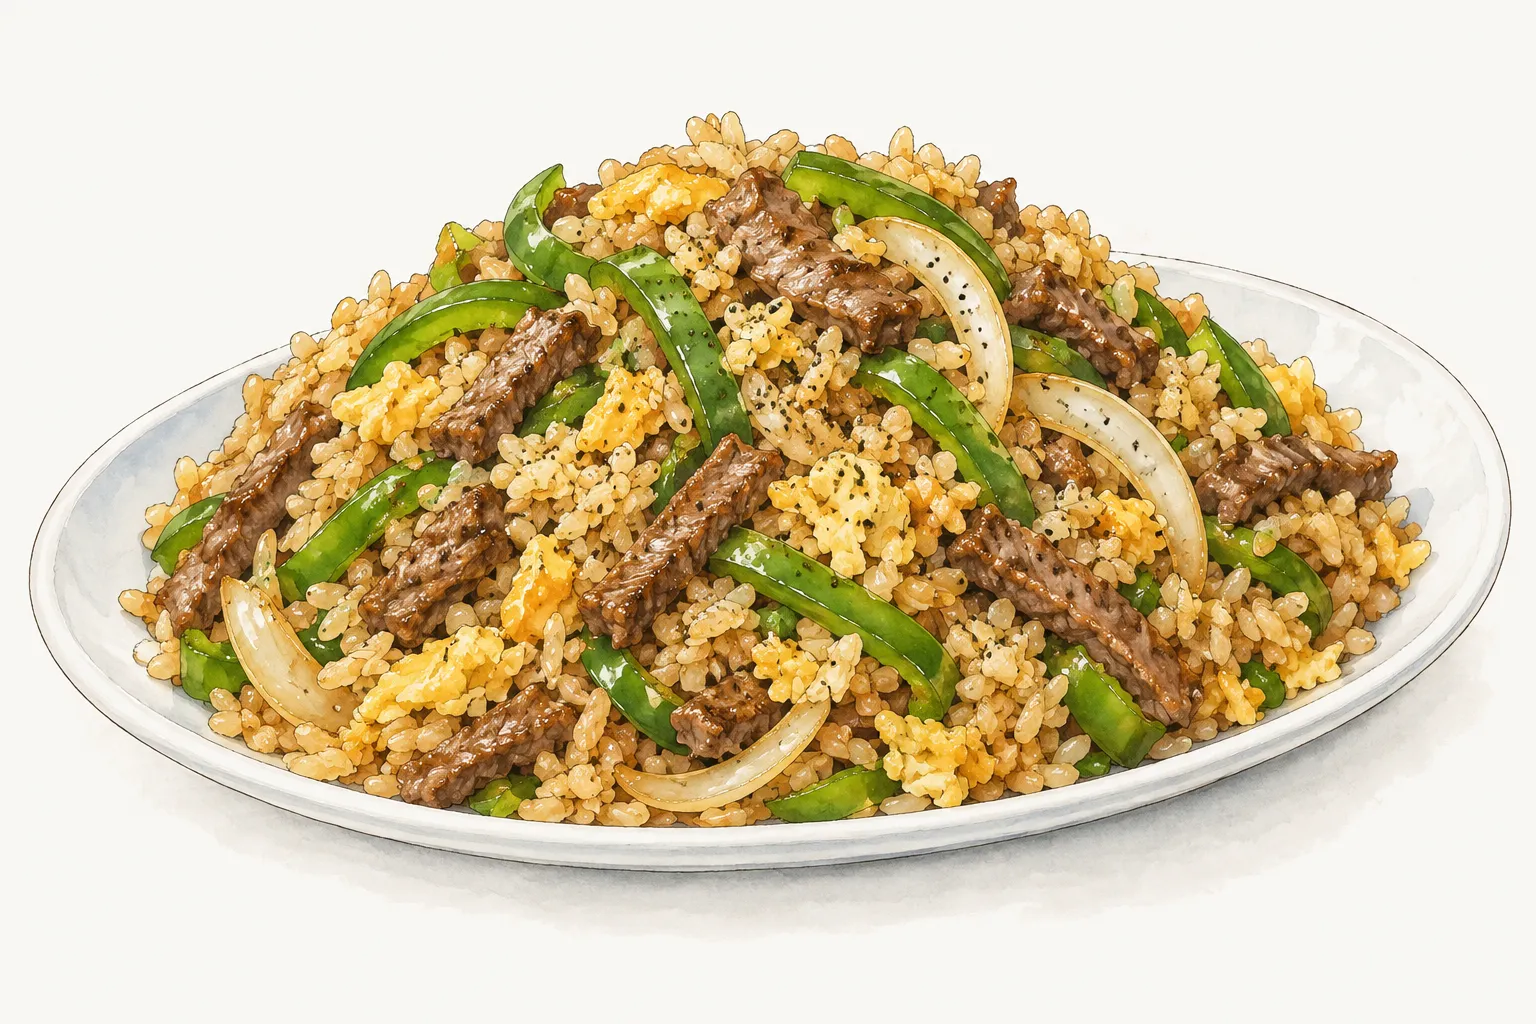
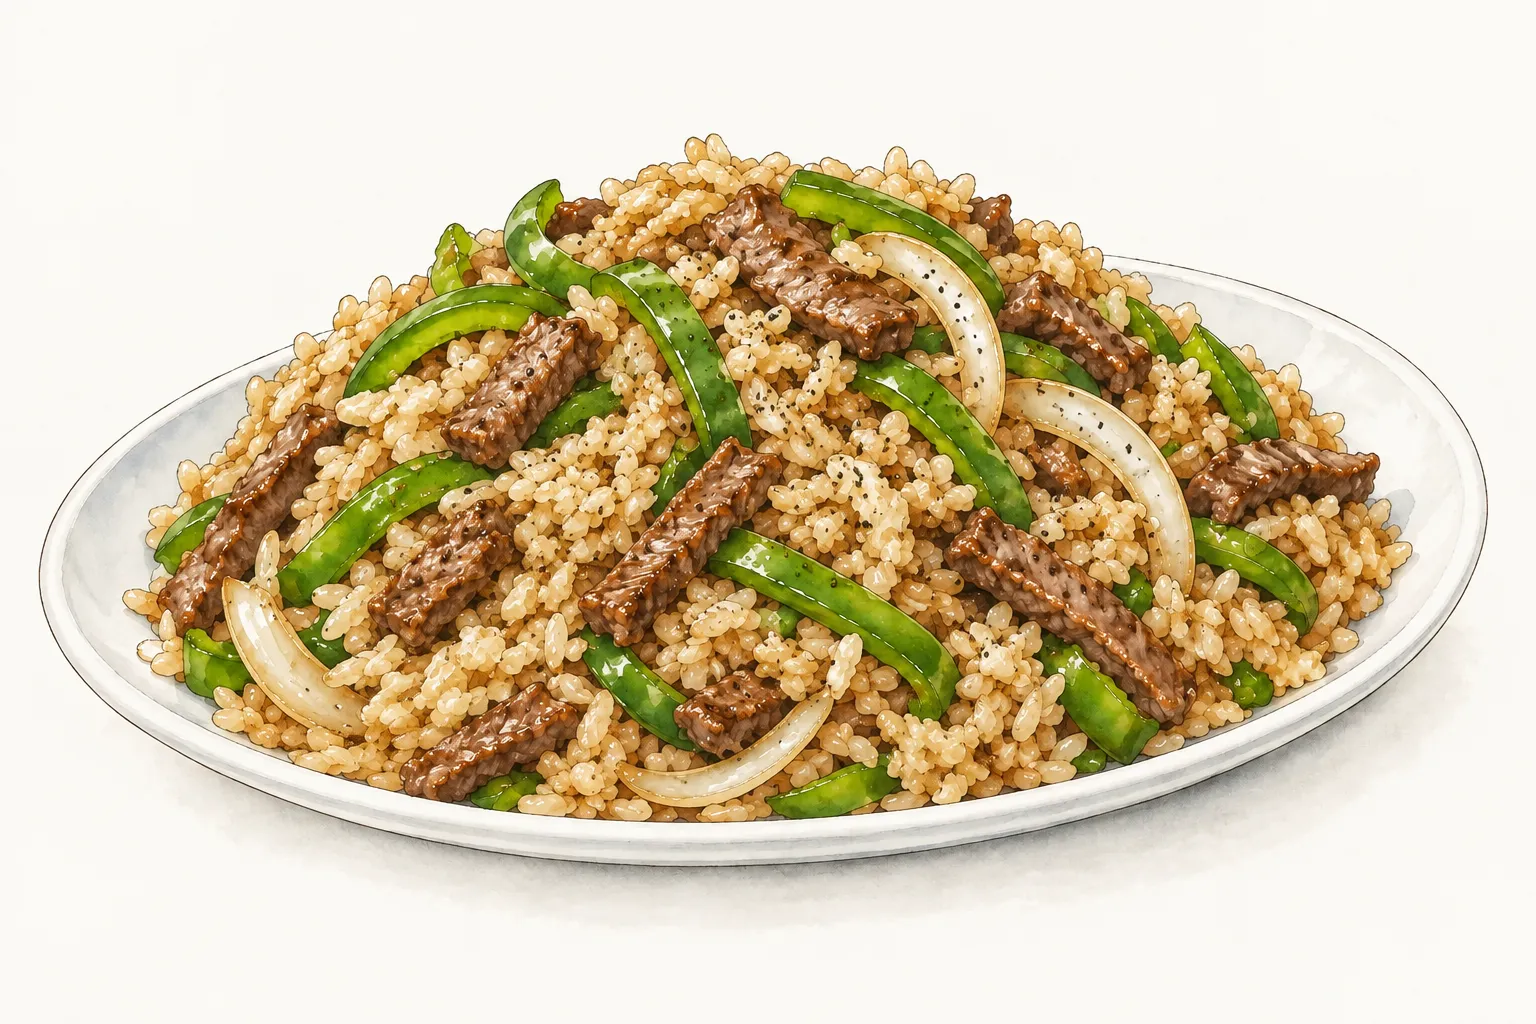
fix: correct batch 20 recipe timing and illustrations

diff --git a/tests/recipe-batch-twenty-corrections.test.ts b/tests/recipe-batch-twenty-corrections.test.ts
@@ -1,0 +1,88 @@
+import assert from "node:assert/strict";
+import { readFile } from "node:fs/promises";
+import { test } from "node:test";
+import { parse } from "yaml";
+
+async function recipe(id: string) {
+  return parse(
+    await readFile(
+      new URL(`../content/recipes/${id}/recipe.yaml`, import.meta.url),
+      "utf8",
+    ),
+  );
+}
+
+test("客家鹹豬肉總時包含兩天醃漬、煎肉靜置與操作推估", async () => {
+  const data = await recipe("hakka-salted-pork");
+  assert.match(data.steps[1].text, /冷藏醃漬至少 2 天/);
+  assert.match(data.steps[2].text, /12 分鐘.*5 分鐘/);
+  // 備料炒鹽放涼抹料 15 + 冷藏 2880 + 洗淨擦乾 5 + 煎 12 + 靜置 5 + 切片 3。
+  assert.equal(data.timeMinutes, 15 + 2880 + 5 + 12 + 5 + 3);
+});
+
+test("台式脆泡菜總時包含抓鹽、漂洗、冷藏且不重計並行備料", async () => {
+  const data = await recipe("taiwanese-pickled-cabbage");
+  assert.match(data.steps[1].text, /30 分鐘/);
+  assert.match(data.steps[2].text, /5 分鐘/);
+  assert.match(data.steps[3].text, /24 小時/);
+  // 菜葉紅蘿蔔備料抓鹽 10 + 靜置 30 + 漂洗 5 + 脫水 5 + 拌合裝盒 5 + 冷藏 1440。
+  // 蒜、辣椒及糖醋汁可在抓鹽靜置時準備，不再外加一段時間。
+  assert.equal(data.timeMinutes, 10 + 30 + 5 + 5 + 5 + 1440);
+});
+
+test("胡椒蝦摘要不添加材料與步驟皆未列的麵粉", async () => {
+  const data = await recipe("pepper-prawns");
+  assert.doesNotMatch(data.summary, /麵粉|裹粉|拍粉/);
+  assert.match(data.summary, /白蝦/);
+  assert.match(data.summary, /白胡椒粉/);
+  assert.equal(
+    data.ingredients.some((item: { name: string }) => /麵粉/.test(item.name)),
+    false,
+  );
+});
+
+test("鹹豬肉摘要保留現有調味，不另外加入肉桂粉或高粱酒", async () => {
+  const data = await recipe("hakka-salted-pork");
+  assert.doesNotMatch(data.summary, /肉桂|高粱/);
+  assert.match(data.summary, /五香粉/);
+  assert.match(data.summary, /米酒/);
+});
+
+test("蒜香炒鴨賞含青蒜苗的圖片對應加入青蒜苗的步驟", async () => {
+  const data = await recipe("garlic-fried-duck-meat");
+  assert.equal(data.steps[2].image, undefined);
+  assert.match(data.steps[3].text, /^放入青蒜苗段/);
+  assert.equal(data.steps[3].image.src, "./step-4.webp");
+  assert.match(data.steps[3].image.alt, /青蒜苗/);
+});
+
+test("第 20 批步驟圖替代文字為完整畫面描述，不是截斷的做法前綴", async () => {
+  const ids = [
+    "garlic-fried-duck-meat",
+    "green-pepper-beef-fried-rice",
+    "hakka-salted-pork",
+    "needle-mushroom-loofah",
+    "pan-fried-hairtail-fish",
+    "pepper-prawns",
+    "sesame-oil-pork-liver",
+    "taiwanese-pickled-cabbage",
+    "tree-seeds-steamed-pork",
+    "wugeng-changwang",
+  ];
+  for (const id of ids) {
+    const data = await recipe(id);
+    for (const [index, step] of data.steps.entries()) {
+      if (!step.image) continue;
+      assert.match(
+        step.image.alt,
+        /。$/,
+        `${id} 第 ${index + 1} 張圖應為完整句子`,
+      );
+      assert.equal(
+        step.text.startsWith(step.image.alt),
+        false,
+        `${id} 不可拿操作文字截成圖片描述`,
+      );
+    }
+  }
+});

diff --git a/.scratch/recipe-batch-twenty-corrections-20261012.md b/.scratch/recipe-batch-twenty-corrections-20261012.md
@@ -1,0 +1,75 @@
+# 第 20 批菜譜：PR #155 窄修
+
+2026-10-12，以 PR #155 的 `f33ba4bb2a2ab0e92d5e4e0e949a19224546cdcb` 為查核起點。修正期間站主已於 03:46:35 UTC 合併該 PR，因此改從合併後 main `c723d35b80785617ded148cc81a8f58b3e05a7ef` 建立新修正分支，未更新舊分支，也未直接推送 main。
+本次處理總時、摘要內部矛盾、圖片替代文字、圖片對應步驟及四張獲准重製的插畫。不改材料品項、用量、做法文字、分類、份數或核准來源網址；沒有用新增食材迎合插畫。
+
+## 來源限制
+
+客家鹹豬肉、台式脆泡菜、台式胡椒蝦、青椒牛肉炒飯的既有核准楊桃網址，以專用 Big5 擷取腳本讀取皆回 HTTP 403，未讀到全文，沒有改用搜尋摘要或其他路徑繞過。四筆來源紀錄保留原網址並補上此次限制。
+
+本次摘要修正僅對齊現有材料與步驟：胡椒蝦刪除未列的麵粉；鹹豬肉刪除未列的肉桂粉與高粱酒，維持現有五香粉及米酒。兩篇摘要同時縮為約 50 字的平實敘述。這不是原來源全文查證通過，也不是整份配方或食安認證。原有步驟中的時間、熟度、洗肉等做法沒有因本次窄修獲得重新核實。
+
+核准來源無法取得，這四篇的照抄比對也無法成立；不將讀取失敗算成「沒有 COPIED」。其他六篇只依實圖修 alt，未重新查核配方來源或改動其來源紀錄。既有 ADR 0009 的只取事實、句子重述原則仍適用，不新增來源利用授權的主張。
+
+## 時間依據：皆為編輯推估
+
+- 客家鹹豬肉：25 → 2920 分鐘。備料、炒鹽放涼及抹料約 15 分鐘＋原有至少 2 天冷藏（2880）＋煎前洗淨擦乾約 5＋原有煎肉 12＋原有靜置 5＋切片排盤約 3＝2920。以最短兩天醃漬計，醃更久需另加；炒鹽放涼時可處理大蒜，已包在前段，不再加一次備料時間。
+- 台式脆泡菜：20 → 1495 分鐘。菜葉、胡蘿蔔備料及抓鹽約 10＋原有靜置 30＋原有漂洗 5＋脫水約 5＋拌合裝盒約 5＋原有冷藏 24 小時（1440）＝1495。大蒜、辣椒及糖醋汁可在抓鹽靜置時準備，不另計。估算已為 5 分鐘倍數，並非試做計時。
+
+## 替代文字與圖片位置
+
+十道菜的二十張步驟圖均檢視原尺寸後，改寫為完整的可見畫面描述。刪除把操作段落固定截斷當 alt 的做法，不把嗅覺、經過時間、看不出的材料性質寫進 alt。
+
+蒜香炒鴨賞原 `step-3.webp` 已有青蒜苗，移到實際加入青蒜苗的第四步，檔名改為 `step-4.webp`；圖片位元完全不變，做法順序及文字完全不變。
+
+## 圖文未解項目
+
+已逐張檢視本批四十張圖片。完整 alt 不代表以下圖文落差已解決，不能將本批列為全部圖片通過：
+
+### 四張主要確證落差與本次重製授權
+
+- 青椒牛肉炒飯 `hero.webp`：有明顯炒蛋塊，配方未列蛋。
+- 乾煎白帶魚 `hero.webp`：有綠色空心蔥花，配方未列青蔥。
+- 台式脆泡菜 `step-2.webp`：畫成細長菜絲且不見胡蘿蔔絲，與手撕約 5 公分大片後拌胡蘿蔔的步驟不符。
+- 五更腸旺 `hero.webp`：金屬鍋下仍有燃燒炭火及爐架，非規定的離火成品圖，且末步容器為砂鍋。
+
+歷史生成次數不明，未擅自重設次數。站主於 2026-10-12 03:49:40 UTC 明確同意以上四張各額外重製一次。本次每張最多一次，品質不合格亦不再追加；重製結果與原生 WebP 驗證另列。
+
+### 其他較小落差及尚不能確證的辨識
+
+- 金針菇絲瓜第一步的菇仍為整束，第三步絲瓜多為半圓片，與前圖滾刀塊不同。
+- 白帶魚第一步魚身三道刀痕，文字為兩道。
+- 胡椒蝦材料圖畫出三根青蔥、三根紅辣椒、約六尾蝦，與材料表二根、一根、約十二尾不同；其他蝦圖仍可見蝦槍，與剪除的文字有落差。
+- 樹子蒸肉第一步未畫出該步的紅辣椒。
+- 五更腸旺第一步生薑畫成絲，配方為薑末。
+- 泡菜第一步及成品葉形疑似大白菜；豬肝成品的金黃配料疑似蒜瓣而非薑片。兩項辨識未能確證，不因疑似外觀變更材料或擴大重製。
+
+以上較小落差保留供站主審閱，不在四張例外授權之內，沒有追加生圖。未涉及其他分享圖批次。
+
+## 驗證
+
+先寫五項回歸，原稿五項均失敗，修正後通過；另補含青蒜苗圖片對應第四步的回歸，共六項。完整測試與最終提交的 CI 結果將記於 PR；本次不自行合併或部署。
+
+## 既有未用材料警告
+
+本批五筆均保留，不藉本次改配方或弱化檢查：鹹豬肉「大蒜」在步驟稱蒜泥／蒜末、「粗黑胡椒粒」稱黑胡椒粒；胡椒蝦的「植物油」在步驟稱油；麻油豬肝的「新鮮豬肝」稱豬肝；五更腸旺的「酸菜心」稱酸菜。這些是既有名稱不一致造成的字面比對警告，仍須另核來源後整頓，不是本次食材遺漏已全面排除的證明。
+
+## 本次四張重製結果
+
+四張均以內建生圖工具各生成一次，額度 1/1；原歷史次数維持未知。所有 PNG 原圖為 1536×1024，逐張檢視後以 repo 的 img.mjs 與原生 cwebp/dwebp 1.6.0 轉檔並完整解碼，未裁切，未用其他編碼器替代。
+
+- 炒飯：未列炒蛋已移除，盤子完整；左右留白仍偏窄，沒有宣稱符合約六成主體的全部構圖目標。
+- 白帶魚：未列青蔥圈已移除，保留生薑絲與紅辣椒絲，盤子完整。
+- 泡菜：細長菜絲改成大片，補上可見胡蘿蔔絲。葉面皺褶與較寬白肋仍使種類外觀有疑慮，不能僅由此確證為大白菜；alt 只描述大片菜葉，不保證圖像已完全符合高麗菜外觀，留站主審閱。
+- 五更腸旺：改為棕色砂鍋，移除炭火、爐具與爐架，完整容器離火。主體仍較滿，鍋寬約占畫面 84%，未完全達約六成主體目標。
+
+原先主要圖像矛盾已改善，泡菜辨識與構圖仍有上述未解事項。各張已用完本次額外一次，未追加生成；新 PR 保持 draft，不以 CI 綠燈代表圖片與來源審閱已過。
+
+## 本地驗證結果與限制
+
+- 鎖定 pnpm 12.1.0，frozen-lockfile 安裝成功；未改 lockfile 或套件版本。
+- 最終圖文的 `pnpm check`、`pnpm check:content`、`pnpm check:content --launch` 通過。公開 HTML 與 Recipe JSON-LD 皆為 2920／1495 分鐘，四篇來源紀錄沒有進入公開頁面。
+- 原生 cwebp/dwebp 可用後，完整單元測試 1148 項通過；沒有略過或降低檢查。
+- 本地 `pnpm test:e2e` 的三份固定站台建置完成，但 Playwright 所需 Chromium 1243 執行檔不存在，瀏覽器測試無法啟動；未關閉 sandbox、未改測試設定繞過。最終提交仍需遠端 CI 的完整瀏覽器測試，不能稱本地 E2E 通過。
+- Wrangler 僅跑 `deploy --dry-run`，通過；沒有真實部署。
+- pre-push 原生 `pnpm check:merge` 與精確 head 的 CI 結果另在 PR 回報；檢查全綠也不代表本批圖片殘餘落差、來源 403 已解除。
